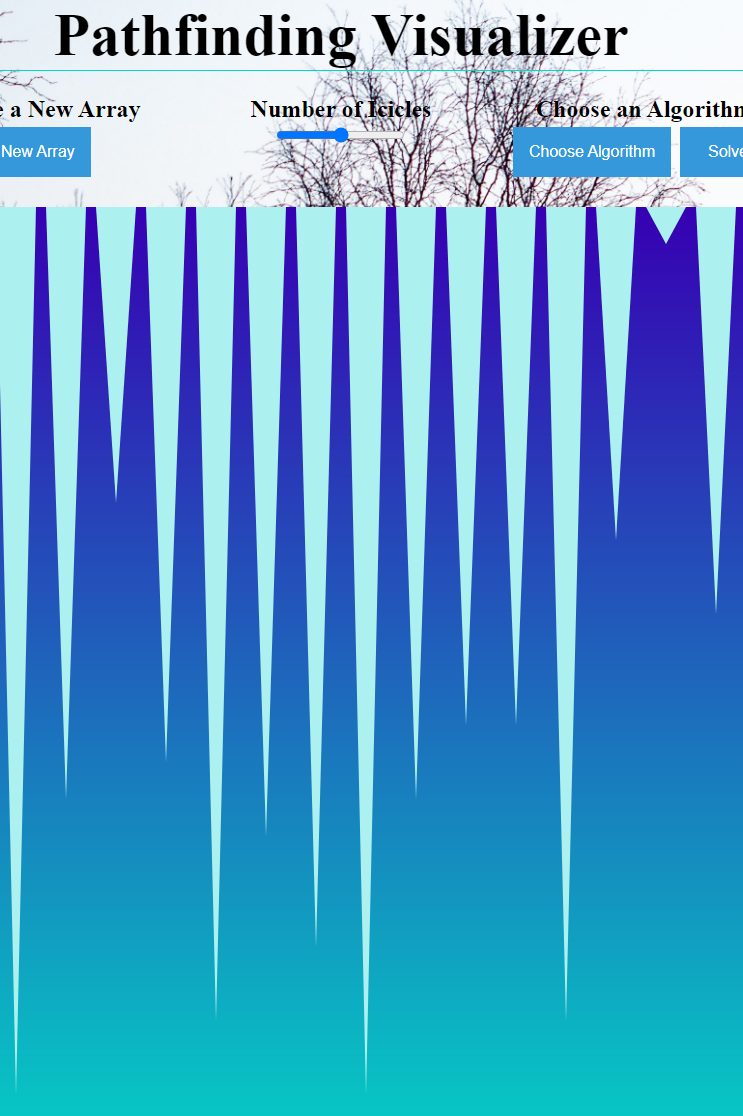
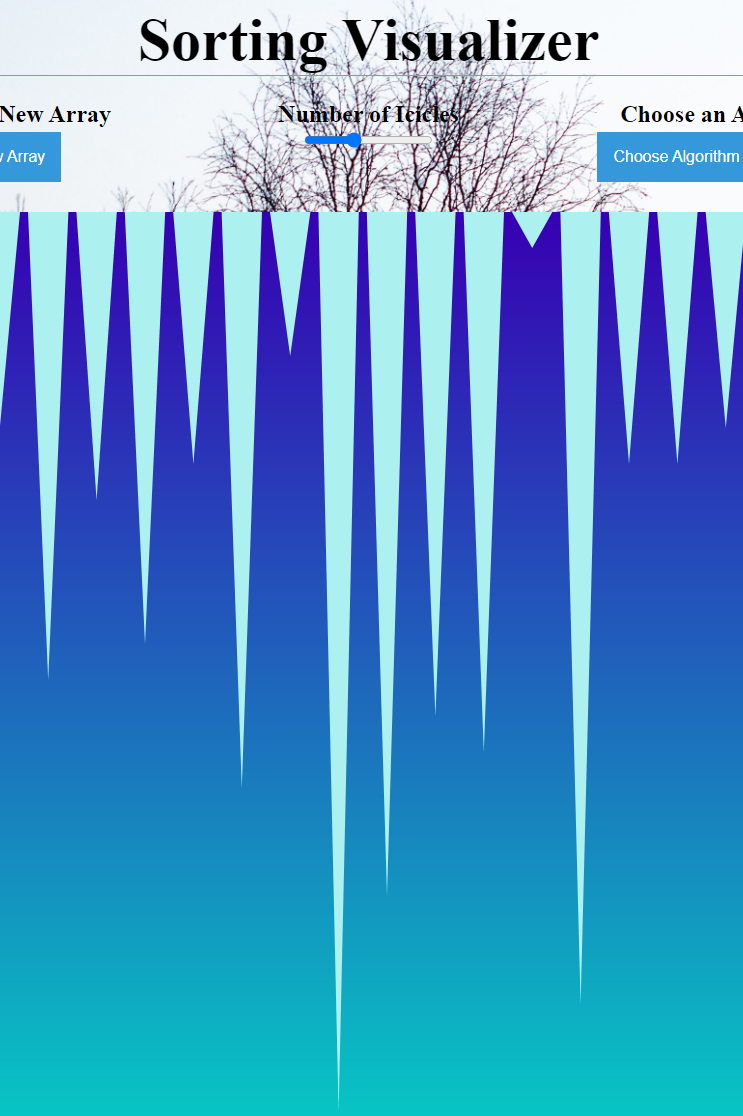
projects page overhaul

diff --git a/Projects/projects.html b/Projects/projects.html
@@ -58,111 +58,85 @@
         </nav>
       </header>
 
-      <!-- Introduction -->
-      <section class="intro-background">
-        <section class="intro" id="home">
-          <h1 class="section__title section__title--intro">
-            I'm <strong>Alex Coffey</strong>
-          </h1>
-          <p class="section__subtitle section__subtitle--intro">
-            Full-Stack Developer
-          </p>
+    <!-- Project Descriptions -->
+
+    <section class="project_descriptions">
+      <div class="project">
+        <a href="./sudoku/sudoku.html" target="blank" class="project_image_link">
           <img
-            src="../images/Profile Pics/image1_alpha.png"
-            alt="Bitmoji wave"
-            class="intro__image"
-          />
-        </section>
-      </section>
-    </section>
+            src="../images/Project Images/Sudoku.png"
+            alt=""
+            class="project_image"/>
+        </a>
+         <div class="title">
+          <a href="./sudoku/sudoku.html" class="name">
+            <h3 class="name">Sudoku Solver</h3>
+          </a>
+            <i class="fab fa-html5 icon">Html5 &nbsp;</i>
+            <i class="fab fa-css3-alt icon">Css3 &nbsp;</i>
+            <i class="fab fa-js-square icon">JavaScript &nbsp;</i>
+         </div>
+         <p class="description">
+          In this project I made a sudoku game that has a timer, 
+          solution checker, and a self-solver that uses a backtracking 
+          algorithm visualizer to demonstrate how the algorithm works.
+          This project helped me learn about creating and interacting with 
+          html elements as every cell is its own paragraph tag.
+        </p>
+      </div>
 
-    <!-- My Projects -->
+      <br>
 
-    <section class="my-projects" id="work">
-      <h2 class="section__title section__title-projects">My Projects</h2>
-      <p class="section__subtitle section__subtitle--projects">
-        A seclection of some of my projects
+      <div class="project">
+        <a href="./Sorting/sorting.html" target="blank" class="project_image_link">
+          <img
+            src="../images/Project Images/Sorting.png"
+            alt=""
+            class="project_image"/>
+        </a>
+        <div class="title">
+          <a href="./Sorting/sorting.html" class="name">
+           <h3 class="name">Sorting Visualizer</h3>
+          </a>
+           <i class="fab fa-html5 icon">Html5 &nbsp;</i>
+           <i class="fab fa-css3-alt icon">Css3 &nbsp;</i>
+           <i class="fab fa-js-square icon">JavaScript &nbsp;</i>
+        </div>
+        <p class="description">
+          In this project I made a sorting algorithm visualizer in which 
+          many algorithm can be applied. The number of objects to be sorted 
+          can also be adjusted. This project helped me learn about the 
+          various sorting algorithms that are available for use as well as
+          their space and time complexities.
+        </p>
+     </div>
+
+     <br>
+
+     <div class="project">
+      <a href="./Pathfinding/pathfinding.html" target="blank" class="project_image_link">
+        <img
+          src="../images/Project Images/Pathfinding.png"
+          alt=""
+          class="project_image"/>
+      </a>
+      <div class="title">
+        <a href="./Pathfinding/pathfinding.html" class="name">
+         <h3 class="name">Pathfinding Visualizer</h3>
+        </a>
+         <i class="fab fa-html5 icon">Html5 &nbsp;</i>
+         <i class="fab fa-css3-alt icon">Css3 &nbsp;</i>
+         <i class="fab fa-js-square icon">JavaScript &nbsp;</i>
+      </div>
+      <p class="description">In this project I made a pathfinding visualizer
+        which will show how each algoritm attempts to search for the
+        most efficient path. This project helped me learn about the 
+        various sorting algorithms that are available for use as well as
+        their space and time complexities. I also learned about canvases 
+        and how to interact with them.
       </p>
-      <div class="portfolio">
-          <!-- Portfolio item 01-->
-        <a href="./sudoku/sudoku.html" class="portfolio__item">
-          <img
-            src="../images/Project Images/Sudoku.png"
-            alt=""
-            class="portfolio__img"/>
-        </a>
-        <!-- Portfolio item 01-->
-        <a href="./sudoku/sudoku.html" class="portfolio__item">
-          <img
-            src="../images/Project Images/Sudoku.png"
-            alt=""
-            class="portfolio__img"/>
-        </a>
-        <!-- Portfolio item 01-->
-        <a href="./sudoku/sudoku.html" class="portfolio__item">
-          <img
-            src="../images/Project Images/Sudoku.png"
-            alt=""
-            class="portfolio__img"/>
-        </a>
-        <!-- Portfolio item 01-->
-        <a href="./sudoku/sudoku.html" class="portfolio__item">
-          <img
-            src="../images/Project Images/Sudoku.png"
-            alt=""
-            class="portfolio__img"/>
-        </a>
-      </div>
-      <a href="./projects.html" class="btn">More These Projects</a>
+   </div>
     </section>
-
-    <!-- About Me -->
-
-    <section class="about-me" id="services">
-      <h2 class="section__title section__title--about">
-        <a href="../about.html" class="about__link">About Me</a>
-      </h2>
-      <div class="services">
-        <div class="service">
-          <h3>Work Experience</h3>
-          <p>
-            Lorem ipsum dolor sit amet, consectetur adipiscing elit. In quis
-            metus vel neque posuere eleifend at et mauris. Donec luctus volutpat
-            tortor eu tempus. Nullam tempus fringilla justo, in tincidunt tellus
-            posuere nec. Maecenas finibus ex nunc, et tincidunt erat molestie
-            at. Aliquam quis eros sit amet felis vulputate accumsan. Sed nec
-            felis faucibus, tincidunt est sed, dapibus odio. Nam vitae ultrices
-            turpis. Vivamus non elit id diam congue aliquam et sed lacus.
-          </p>
-        </div>
-        <div class="service">
-          <h3>Education</h3>
-          <p>
-            Lorem ipsum dolor sit amet, consectetur adipiscing elit. In quis
-            metus vel neque posuere eleifend at et mauris. Donec luctus volutpat
-            tortor eu tempus. Nullam tempus fringilla justo, in tincidunt tellus
-            posuere nec. Maecenas finibus ex nunc, et tincidunt erat molestie
-            at. Aliquam quis eros sit amet felis vulputate accumsan. Sed nec
-            felis faucibus, tincidunt est sed, dapibus odio. Nam vitae ultrices
-            turpis. Vivamus non elit id diam congue aliquam et sed lacus.
-          </p>
-        </div>
-        <div class="service">
-          <h3>Passions</h3>
-          <p>
-            Lorem ipsum dolor sit amet, consectetur adipiscing elit. In quis
-            metus vel neque posuere eleifend at et mauris. Donec luctus volutpat
-            tortor eu tempus. Nullam tempus fringilla justo, in tincidunt tellus
-            posuere nec. Maecenas finibus ex nunc, et tincidunt erat molestie
-            at. Aliquam quis eros sit amet felis vulputate accumsan. Sed nec
-            felis faucibus, tincidunt est sed, dapibus odio. Nam vitae ultrices
-            turpis. Vivamus non elit id diam congue aliquam et sed lacus.
-          </p>
-        </div>
-      </div>
-      <a href="../about.html" class="btn">More About Me</a>
-    </section>
-
 
     <!-- Footer -->
 

diff --git a/css/style.css b/css/style.css
@@ -399,6 +399,66 @@ header {
   opacity: 0.25;
 }
 
+.project_descriptions {
+  background-color: black;
+  text-align: left;
+}
+
+.project {
+  max-width: 700px;
+  margin: auto;
+  display: grid;
+  grid-template-areas:
+    "img title"
+    "img description"
+    "img description"
+    "img description";
+  grid-column-gap: 30px;
+  transition: transform 600ms cubic-bezier(0.5, 0, 0.5, 1), opacity 250ms linear;
+}
+
+.project_image_link {
+  overflow: hidden;
+  grid-area: img;
+  max-width: 200px;
+  justify-self: end;
+  background-color: var(--clr-teal-light);
+}
+
+.project_image {
+  transition: transform 600ms cubic-bezier(0.5, 0, 0.5, 1), opacity 250ms linear;
+}
+
+.project_image:hover {
+  transform: scale(1.2);
+  opacity: 0.25;
+}
+
+.title {
+  grid-area: title;
+  color: var(--clr-teal-light);
+  line-height: 0.5;
+  display: inline;
+  max-height: auto;
+  border-bottom: 1px solid var(--clr-teal-light);
+}
+
+.name {
+  line-height: 1.5;
+  font-size: 1.75rem;
+  color: var(--clr-teal-light);
+}
+
+.icon {
+  color: white;
+  font-size: var(--fs-h3);
+}
+
+.description {
+  grid-area: description;
+  align-self: start;
+}
+
 /* About me */
 
 .about-me {

diff --git a/Projects/Sorting/sorting.js b/Projects/Sorting/sorting.js
@@ -60,6 +60,15 @@ function change_to_select() {
   algo = "select";
 }
 
+document
+  .getElementById("number")
+  .addEventListener("input", change_number_of_icicles);
+function change_number_of_icicles() {
+  num_of_icicles = document.getElementById("number").value;
+  icicle_width = (canvas.width - num_of_icicles * icicle_gap) / num_of_icicles;
+  new_icicles();
+}
+
 const canvas = document.querySelector("canvas");
 const c = canvas.getContext("2d");
 const canvas_container = document.getElementById("canvas-container");
@@ -69,9 +78,10 @@ canvas.width = 1210;
 
 var icicles = [];
 var icicle_heights;
-var icicle_width = 40;
-var icicle_gap = 10;
-var num_of_icicles = Math.floor(canvas.width / (icicle_gap + icicle_width));
+var num_of_icicles = document.getElementById("number").value;
+var icicle_gap = 8;
+var icicle_width =
+  (canvas.width - num_of_icicles * icicle_gap) / num_of_icicles;
 var algo;
 var sorting = false;
 var is_sorted = false;

diff --git a/Projects/Sorting/sorting.html b/Projects/Sorting/sorting.html
@@ -33,7 +33,7 @@
       <div class="logo">
         <img src="../../images/Profile Pics/bitmoji_mountain.png" alt="" />
       </div>
-      <h4 class="page__title">PATHFINDING</h4>
+      <h4 class="page__title">SORTING</h4>
       <button class="nav-toggle" aria-label="toggle navigation">
         <span class="hamburger"></span>
       </button>
@@ -55,7 +55,7 @@
       </nav>
     </header>
     <section id="guide" class="guide">
-      <h2>Pathfinding Visualizer</h2>
+      <h2>Sorting Visualizer</h2>
       <div class="guide_buttons">
         <div class="step_4">
           <h3>Create a New Array</h3>
@@ -63,7 +63,7 @@
         </div>
         <div class="step_1">
           <h3>Number of Icicles</h3>
-          <input type="range" />
+          <input type="range" id="number" name="number" min="10" max="50" value="25"/>
         </div>
         <div class="step_3">
           <h3>Choose an Algorithm</h3>
